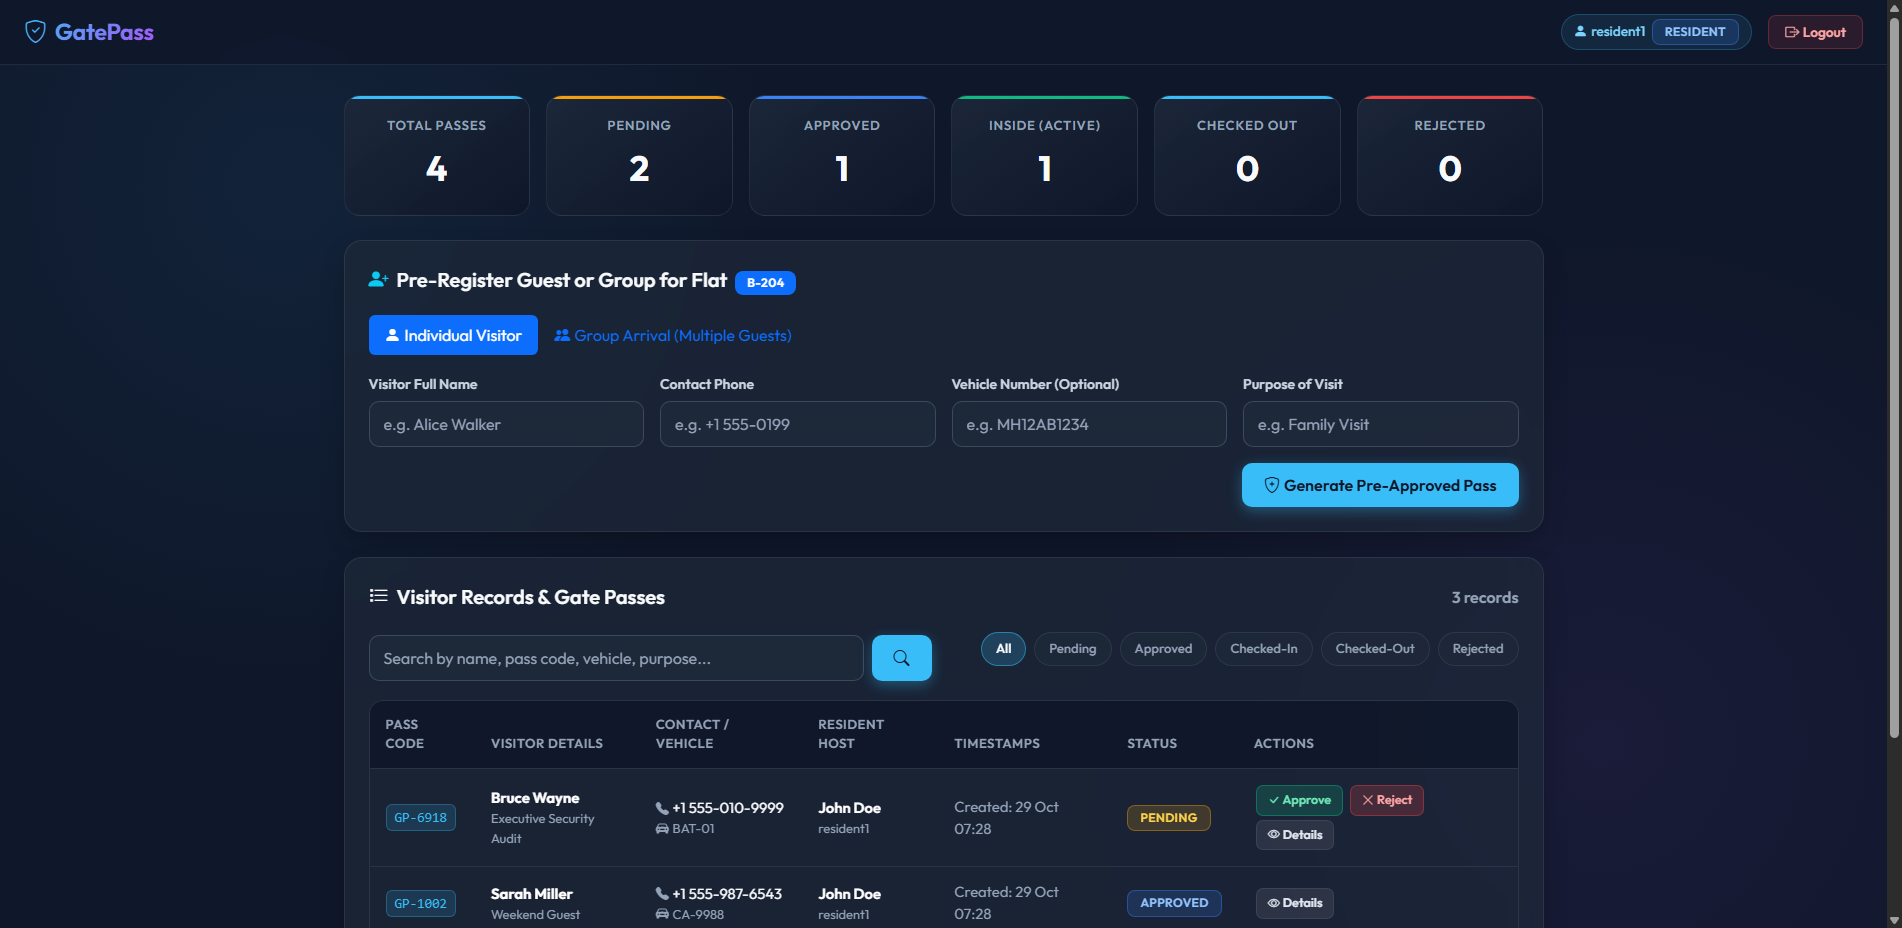
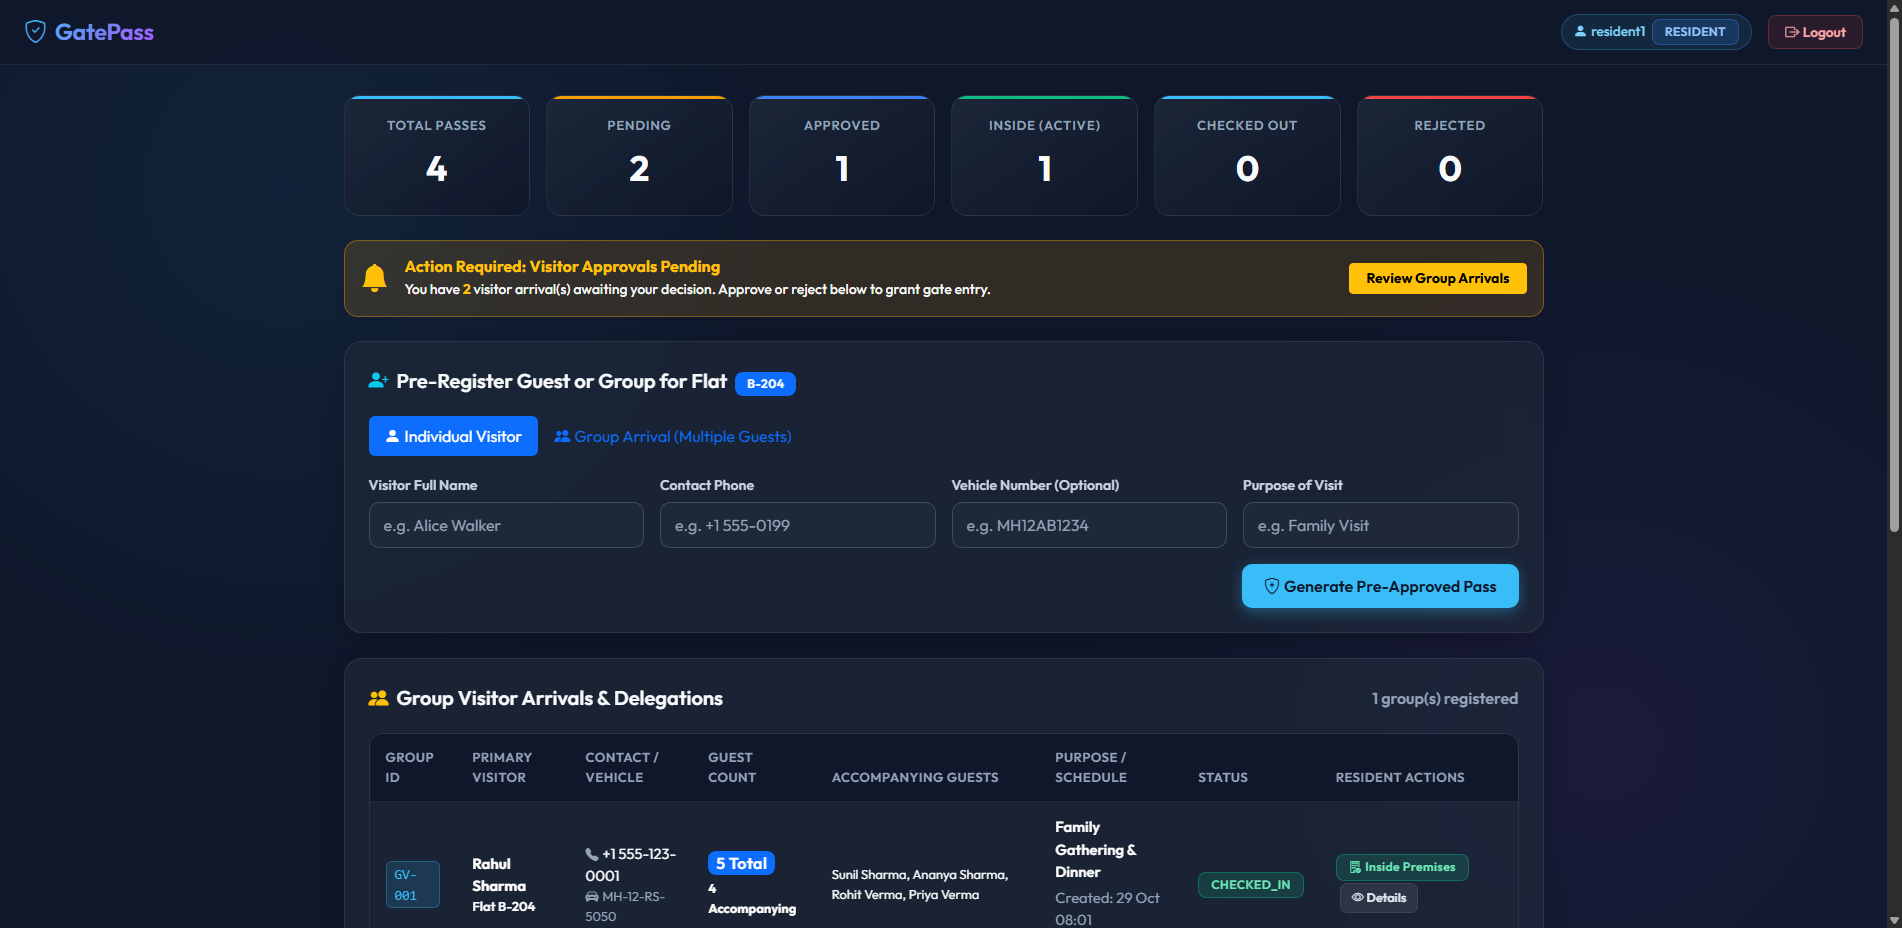
fix: render group visitor arrivals table with approve/reject actions on resident dashboard

diff --git a/visitor-gate-pass/src/main/resources/templates/dashboard.html b/visitor-gate-pass/src/main/resources/templates/dashboard.html
@@ -433,6 +433,18 @@
         </div>
     </div>
 
+    <!-- PENDING APPROVAL ALERT BANNER FOR RESIDENT -->
+    <div th:if="${role == 'ROLE_RESIDENT' && pendingPasses > 0}" class="alert alert-warning d-flex align-items-center justify-content-between p-3 mb-4 shadow-sm" style="background: rgba(245, 158, 11, 0.15); border: 1px solid rgba(245, 158, 11, 0.4); border-radius: 14px;">
+        <div class="d-flex align-items-center">
+            <i class="bi bi-bell-fill fs-3 text-warning me-3"></i>
+            <div>
+                <h6 class="mb-0 text-warning fw-bold">Action Required: Visitor Approvals Pending</h6>
+                <span class="small text-light">You have <strong class="text-warning">[[${pendingPasses}]]</strong> visitor arrival(s) awaiting your decision. Approve or reject below to grant gate entry.</span>
+            </div>
+        </div>
+        <a href="#resident-groups-view" class="btn btn-warning btn-sm fw-bold px-3 py-1">Review Group Arrivals</a>
+    </div>
+
     <!-- RESIDENT PRE-REGISTRATION PANEL -->
     <div th:if="${role == 'ROLE_RESIDENT'}" class="glass-panel" id="resident-preregister-view">
         <div class="panel-title">
@@ -522,6 +534,112 @@
                     </div>
                 </form>
             </div>
+        </div>
+    </div>
+
+    <!-- GROUP VISITS PANEL FOR RESIDENT -->
+    <div th:if="${role == 'ROLE_RESIDENT' || role == 'ROLE_ADMIN'}" class="glass-panel" id="resident-groups-view">
+        <div class="panel-title d-flex justify-content-between align-items-center">
+            <span>
+                <i class="bi bi-people-fill me-2 text-warning"></i>Group Visitor Arrivals & Delegations
+                <span class="badge bg-warning text-dark ms-2" th:if="${groupVisits != null && !groupVisits.isEmpty() && groupVisits.?[status == 'PENDING'].size() > 0}" 
+                      th:text="${groupVisits.?[status == 'PENDING'].size() + ' Awaiting Approval'}">1 Awaiting Approval</span>
+            </span>
+            <span class="fs-6 text-muted" th:text="${groupVisits != null ? groupVisits.size() + ' group(s) registered' : '0 groups'}"></span>
+        </div>
+
+        <div class="table-responsive" th:if="${groupVisits != null and !groupVisits.isEmpty()}">
+            <table class="table" id="group-records-table">
+                <thead>
+                    <tr>
+                        <th>Group ID</th>
+                        <th>Primary Visitor</th>
+                        <th>Contact / Vehicle</th>
+                        <th>Guest Count</th>
+                        <th>Accompanying Guests</th>
+                        <th>Purpose / Schedule</th>
+                        <th>Status</th>
+                        <th>Resident Actions</th>
+                    </tr>
+                </thead>
+                <tbody>
+                    <tr th:each="group : ${groupVisits}" th:id="${'group-row-' + group.id}">
+                        <td>
+                            <span class="pass-code-pill" th:text="${group.groupCode}">GV-001</span>
+                        </td>
+                        <td>
+                            <div class="fw-bold text-light" th:text="${group.primaryVisitorName}">Primary Visitor</div>
+                            <div class="small text-info fw-semibold" th:text="${group.flatNumber != null && !group.flatNumber.equals('N/A') ? 'Flat ' + group.flatNumber : (group.host != null && group.host.unitNumber != null && !group.host.unitNumber.equals('N/A') ? 'Flat ' + group.host.unitNumber : 'My Flat')}">Flat B-204</div>
+                        </td>
+                        <td>
+                            <div><i class="bi bi-telephone-fill small text-muted me-1"></i><span th:text="${group.phone}">123456</span></div>
+                            <div class="small text-muted" th:if="${group.vehicleNo != null and !group.vehicleNo.isEmpty()}">
+                                <i class="bi bi-car-front-fill me-1"></i><span th:text="${group.vehicleNo}">MH12-3456</span>
+                            </div>
+                        </td>
+                        <td>
+                            <span class="badge bg-primary fs-6 px-2 py-1" th:text="${group.totalGuests + ' Total'}">3 Total</span>
+                            <div class="small text-info mt-1 fw-bold" th:text="${group.accompanyingGuests + ' Accompanying'}">2 Accompanying</div>
+                        </td>
+                        <td>
+                            <div class="small text-light" th:text="${(group.accompanyingGuestNames != null and !group.accompanyingGuestNames.isBlank()) ? group.accompanyingGuestNames : 'None listed'}">Names</div>
+                        </td>
+                        <td class="small text-muted">
+                            <div class="fw-semibold text-light mb-1" th:text="${group.purpose}">Purpose</div>
+                            <div th:if="${group.createdAt != null}">Created: <span th:text="${#temporals.format(group.createdAt, 'dd MMM HH:mm')}">Date</span></div>
+                            <div th:if="${group.expectedArrivalTime != null}" class="text-warning">Exp: <span th:text="${#temporals.format(group.expectedArrivalTime, 'dd MMM HH:mm')}">Time</span></div>
+                            <div th:if="${group.checkInTime != null}" class="text-info">In: <span th:text="${#temporals.format(group.checkInTime, 'dd MMM HH:mm')}">Time</span></div>
+                            <div th:if="${group.checkOutTime != null}" class="text-secondary">Out: <span th:text="${#temporals.format(group.checkOutTime, 'dd MMM HH:mm')}">Time</span></div>
+                        </td>
+                        <td>
+                            <span class="badge" 
+                                  th:classappend="${group.status == 'PENDING' ? 'bg-warning text-dark' : (group.status == 'APPROVED' ? 'bg-info' : (group.status == 'CHECKED_IN' ? 'bg-success' : (group.status == 'REJECTED' ? 'bg-danger' : 'bg-secondary')))}"
+                                  th:text="${group.status}" th:id="${'group-status-badge-' + group.id}">STATUS</span>
+                        </td>
+                        <td>
+                            <!-- Resident Approval Actions for Group -->
+                            <div th:if="${role == 'ROLE_RESIDENT' && group.status == 'PENDING'}" class="d-inline">
+                                <form th:action="@{/resident/group-status/{id}(id=${group.id})}" method="post" class="d-inline">
+                                    <input type="hidden" name="status" value="APPROVED">
+                                    <button type="submit" class="btn-action approve" title="Approve Group Visit" id="approve-group-btn">
+                                        <i class="bi bi-check-lg"></i> Approve
+                                    </button>
+                                </form>
+                                <form th:action="@{/resident/group-status/{id}(id=${group.id})}" method="post" class="d-inline">
+                                    <input type="hidden" name="status" value="REJECTED">
+                                    <button type="submit" class="btn-action reject" title="Reject Group Visit" id="reject-group-btn">
+                                        <i class="bi bi-x-lg"></i> Reject
+                                    </button>
+                                </form>
+                            </div>
+
+                            <span th:if="${group.status == 'APPROVED'}" class="badge bg-info small">
+                                <i class="bi bi-hourglass-split me-1"></i>Approved (Gate Ready)
+                            </span>
+                            <span th:if="${group.status == 'CHECKED_IN'}" class="badge bg-success small">
+                                <i class="bi bi-building-check me-1"></i>Inside Premises
+                            </span>
+                            <span th:if="${group.status == 'CHECKED_OUT'}" class="badge bg-secondary small">
+                                Checked Out
+                            </span>
+                            <span th:if="${group.status == 'REJECTED'}" class="badge bg-danger small">
+                                Rejected
+                            </span>
+
+                            <!-- Details Modal Trigger -->
+                            <button type="button" class="btn-action details ms-1" 
+                                    th:attr="data-id=${group.id}" 
+                                    onclick="showGroupModal(this.getAttribute('data-id'))" title="View Full Group Details">
+                                <i class="bi bi-eye"></i> Details
+                            </button>
+                        </td>
+                    </tr>
+                </tbody>
+            </table>
+        </div>
+        <div th:if="${groupVisits == null or groupVisits.isEmpty()}" class="empty-state py-4">
+            <i class="bi bi-people fs-2 d-block mb-2 text-muted"></i>
+            <p class="mb-0 text-muted">No group arrivals recorded for your residence.</p>
         </div>
     </div>
 
@@ -755,6 +873,22 @@
     </div>
 </div>
 
+<!-- GROUP DETAILS MODAL -->
+<div class="modal fade" id="groupDetailsModal" tabindex="-1">
+    <div class="modal-dialog modal-dialog-centered">
+        <div class="modal-content" style="background: #1e293b; border-radius: 16px; color: #f8fafc;">
+            <div class="modal-header border-secondary">
+                <h5 class="modal-title"><i class="bi bi-collection-fill me-2 text-info"></i>Group Visit Audit Details</h5>
+                <button type="button" class="btn-close btn-close-white" data-bs-dismiss="modal"></button>
+            </div>
+            <div class="modal-body" id="groupDetailsBody">Loading...</div>
+            <div class="modal-footer border-secondary">
+                <button type="button" class="btn btn-secondary btn-sm" data-bs-dismiss="modal">Close</button>
+            </div>
+        </div>
+    </div>
+</div>
+
 <!-- EDIT PASS MODAL -->
 <div class="modal fade" id="editPassModal" tabindex="-1" aria-labelledby="editPassModalLabel" aria-hidden="true">
     <div class="modal-dialog modal-dialog-centered">
@@ -833,6 +967,34 @@
         document.getElementById('editVehicle').value = btn.getAttribute('data-vehicle') || '';
         document.getElementById('editPurpose').value = btn.getAttribute('data-purpose');
         new bootstrap.Modal(document.getElementById('editPassModal')).show();
+    }
+
+    function showGroupModal(id) {
+        var modal = new bootstrap.Modal(document.getElementById('groupDetailsModal'));
+        document.getElementById('groupDetailsBody').innerHTML = '<div class="text-center py-4"><div class="spinner-border text-info"></div></div>';
+        modal.show();
+
+        fetch('/api/group-visits/' + id)
+            .then(res => res.json())
+            .then(data => {
+                document.getElementById('groupDetailsBody').innerHTML = `
+                    <div class="mb-3"><strong>Group ID:</strong> <span class="pass-code-pill">${data.groupCode}</span></div>
+                    <div class="mb-2"><strong>Primary Visitor:</strong> ${data.primaryVisitorName}</div>
+                    <div class="mb-2"><strong>Contact Phone:</strong> ${data.phone}</div>
+                    <div class="mb-2"><strong>Residence:</strong> ${data.hostName} (Flat: ${data.flatNumber})</div>
+                    <div class="mb-2"><strong>Total Guests:</strong> <span class="badge bg-primary fs-6">${data.totalGuests}</span> (1 Primary + ${data.accompanyingGuests} Accompanying)</div>
+                    <div class="mb-2"><strong>Accompanying Guest Names:</strong> <p class="text-light bg-dark p-2 rounded mt-1">${data.accompanyingGuestNames || 'None listed'}</p></div>
+                    <div class="mb-2"><strong>Purpose:</strong> ${data.purpose}</div>
+                    <div class="mb-2"><strong>Vehicle No:</strong> ${data.vehicleNo || 'N/A'}</div>
+                    <div class="mb-2"><strong>Status:</strong> <span class="badge ${data.status === 'PENDING' ? 'bg-warning text-dark' : (data.status === 'APPROVED' ? 'bg-info' : (data.status === 'CHECKED_IN' ? 'bg-success' : 'bg-secondary'))}">${data.status}</span></div>
+                    <div class="mb-2"><strong>Expected Arrival:</strong> ${data.expectedArrivalTime || '-'}</div>
+                    <div class="mb-2"><strong>Check-In Time:</strong> ${data.checkInTime || '-'}</div>
+                    <div class="mb-2"><strong>Check-Out Time:</strong> ${data.checkOutTime || '-'}</div>
+                `;
+            })
+            .catch(err => {
+                document.getElementById('groupDetailsBody').innerHTML = '<div class="alert alert-danger">Error fetching details.</div>';
+            });
     }
 </script>
 

diff --git a/visitor-gate-pass/src/main/resources/templates/guard-dashboard.html b/visitor-gate-pass/src/main/resources/templates/guard-dashboard.html
@@ -483,7 +483,7 @@
                         </td>
                         <td>
                             <div class="fw-semibold" th:text="${g.host.name}">Resident A</div>
-                            <div class="small text-info fw-bold" th:text="${g.flatNumber}">B-204</div>
+                            <div class="small text-info fw-bold" th:text="${(g.flatNumber != null and !g.flatNumber.equals('N/A')) ? g.flatNumber : (g.host.unitNumber != null ? g.host.unitNumber : 'Flat ' + g.host.name)}">B-204</div>
                         </td>
                         <td class="text-end">
                             <span class="badge bg-primary fs-6 px-3" th:text="${g.totalGuests}">5</span>

diff --git a/visitor-gate-pass/src/main/java/com/gatepass/config/DataInitializer.java b/visitor-gate-pass/src/main/java/com/gatepass/config/DataInitializer.java
@@ -107,6 +107,32 @@ public class DataInitializer {
 
                     System.out.println("Sample group visits seeded: GV-001 (5 guests checked in), GV-002 (3 guests approved).");
                 }
+            } else {
+                // Defensive migration for pre-existing database records
+                userRepo.findAll().forEach(u -> {
+                    boolean changed = false;
+                    if (u.getUnitNumber() == null || u.getUnitNumber().isBlank() || "N/A".equalsIgnoreCase(u.getUnitNumber())) {
+                        if ("resident1".equals(u.getUsername())) { u.setUnitNumber("Apt 101"); changed = true; }
+                        else if ("resident2".equals(u.getUsername())) { u.setUnitNumber("Apt 102"); changed = true; }
+                        else if ("admin".equals(u.getUsername())) { u.setUnitNumber("HQ-01"); changed = true; }
+                        else if ("guard1".equals(u.getUsername())) { u.setUnitNumber("GATE-01"); changed = true; }
+                        else if (u.getName() != null && u.getName().contains("(") && u.getName().contains(")")) {
+                            String extracted = u.getName().substring(u.getName().indexOf('(') + 1, u.getName().indexOf(')')).trim();
+                            u.setUnitNumber(extracted);
+                            changed = true;
+                        }
+                    }
+                    if (changed) {
+                        userRepo.save(u);
+                    }
+                });
+
+                groupRepo.findAll().forEach(g -> {
+                    if ((g.getFlatNumber() == null || g.getFlatNumber().isBlank() || "N/A".equalsIgnoreCase(g.getFlatNumber())) && g.getHost() != null) {
+                        g.setFlatNumber(g.getHost().getUnitNumber() != null ? g.getHost().getUnitNumber() : "Apt 101");
+                        groupRepo.save(g);
+                    }
+                });
             }
         };
     }

diff --git a/visitor-gate-pass/src/main/java/com/gatepass/controller/WebController.java b/visitor-gate-pass/src/main/java/com/gatepass/controller/WebController.java
@@ -581,12 +581,17 @@ public class WebController {
         long myInside = passes.stream().filter(p -> "CHECKED_IN".equals(p.getStatus())).count() +
                         groupVisits.stream().filter(g -> "CHECKED_IN".equals(g.getStatus())).count();
 
+        long myCheckedOut = passes.stream().filter(p -> "CHECKED_OUT".equals(p.getStatus())).count() +
+                            groupVisits.stream().filter(g -> "CHECKED_OUT".equals(g.getStatus())).count();
+        long myRejected = passes.stream().filter(p -> "REJECTED".equals(p.getStatus())).count() +
+                          groupVisits.stream().filter(g -> "REJECTED".equals(g.getStatus())).count();
+
         model.addAttribute("totalPasses", myTotal);
         model.addAttribute("pendingPasses", myPending);
         model.addAttribute("approvedPasses", myApproved);
         model.addAttribute("checkedInPasses", myInside);
-        model.addAttribute("checkedOutPasses", passes.stream().filter(p -> "CHECKED_OUT".equals(p.getStatus())).count());
-        model.addAttribute("rejectedPasses", passes.stream().filter(p -> "REJECTED".equals(p.getStatus())).count());
+        model.addAttribute("checkedOutPasses", myCheckedOut);
+        model.addAttribute("rejectedPasses", myRejected);
 
         return "dashboard"; // Renders standard dashboard customized with resident tabs
     }
